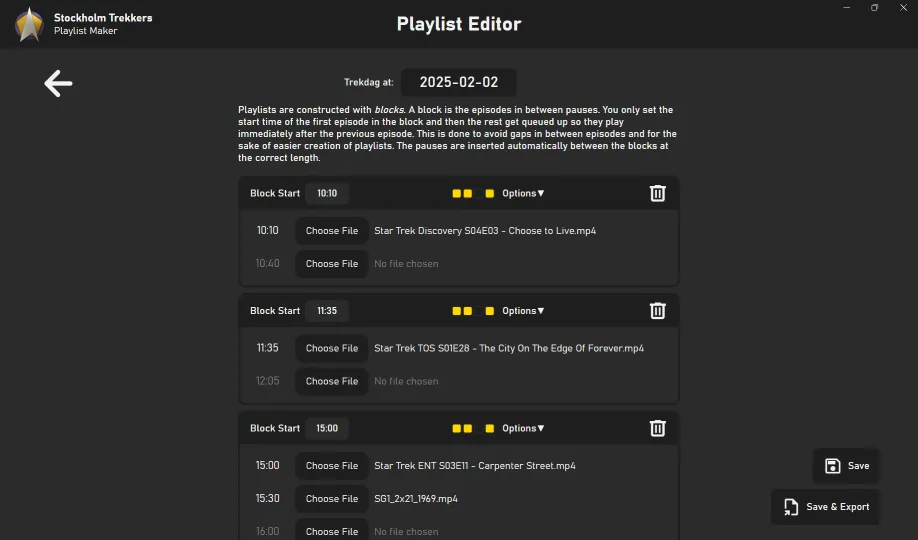
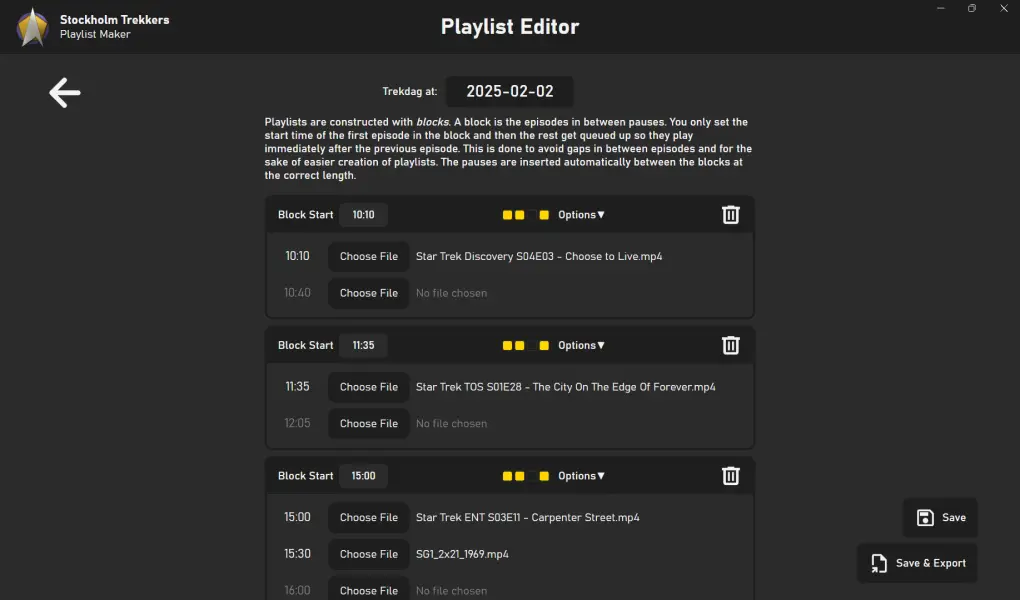
change image sizes

diff --git a/src/info.tsx b/src/info.tsx
@@ -197,8 +197,8 @@ export const info: {
       </>,
       stack: ["Electron", "Node.js", "JavaScript", "HTML & CSS", "Git & GitHub", "GitHub Workflows"],
       images: <>
-        <img className="w-full sm:w-2/5" height={540} width={918} loading="lazy" src="/screenshots/playlist-editor.webp"  alt="playlist editor" />
-        <img className="w-full sm:w-2/5" height={540} width={918} loading="lazy" src="/screenshots/playlist-editor-exporting.webp" alt="playlist editor while exporting a project" />
+        <img className="w-full sm:w-2/5" height={577} width={339} loading="lazy" src="/screenshots/playlist-editor.webp"  alt="playlist editor" />
+        <img className="w-full sm:w-2/5" height={577} width={339} loading="lazy" src="/screenshots/playlist-editor-exporting.webp" alt="playlist editor while exporting a project" />
       </>,
       sourceCodeLink: <a href="https://github.com/VenaStrom/Stockholm-Trekkers-Playlist-Maker" target="_blank">GitHub</a>,
       visitLink: null,
@@ -223,8 +223,8 @@ export const info: {
         "Zustand",
       ],
       images: <>
-        <img className="w-2/5 sm:w-2/7" height={3094} width={1442} loading="lazy" src="/screenshots/home-page.webp" alt="Vena's radio home page" />
-        <img className="w-2/5 sm:w-2/7" height={3094} width={1442} loading="lazy" src="/screenshots/feed-page.webp" alt="Vena's radio feed page" />
+        <img className="w-2/5 sm:w-2/7" height={495} width={231} loading="lazy" src="/screenshots/home-page.webp" alt="Vena's radio home page" />
+        <img className="w-2/5 sm:w-2/7" height={495} width={231} loading="lazy" src="/screenshots/feed-page.webp" alt="Vena's radio feed page" />
       </>,
       sourceCodeLink: <a href="https://github.com/VenaStrom/Venas-Radio" target="_blank">GitHub</a>,
       visitLink: <a href="https://vr-radio.tailad6f63.ts.net/" target="_blank">Live site</a>,

diff --git a/scripts/webp-converter.ts b/scripts/webp-converter.ts
@@ -7,10 +7,17 @@ if (!webpPath) {
 import { execSync } from "child_process";
 import fs from "node:fs";
 import path from "node:path";
-
+import sharp from "sharp";
 
 const inputImages = fs.globSync("assets/screenshots/*.png");
 const outputDir = "public/screenshots/";
+
+const outputSizeOverride = {
+  "feed-page.png": { width: 400, height: 0 },
+  "home-page.png": { width: 400, height: 0 },
+  "playlist-editor-exporting.png": { width: 0, height: 600 },
+  "playlist-editor.png": { width: 0, height: 600 },
+}
 
 for (const inputImage of inputImages) {
   const outputImage = path.join(
@@ -18,7 +25,24 @@ for (const inputImage of inputImages) {
     path.basename(inputImage, path.extname(inputImage)) + ".webp",
   );
 
-  const command = `"${webpPath}" -q 80 "${inputImage}" -o "${outputImage}"`;
+  let outputWidth: number | undefined = undefined;
+  let outputHeight: number | undefined = undefined;
+  const override = outputSizeOverride[path.basename(inputImage)];
+  if (override) {
+    outputWidth = override.width;
+    outputHeight = override.height;
+  }
+  else {
+    const scale = 0.5;
+    const metadata = await sharp(inputImage).metadata();
+    if (!metadata.width || !metadata.height) {
+      throw new Error(`Could not get dimensions for image: ${inputImage}`);
+    }
+    outputWidth = Math.round(metadata.width * scale);
+    outputHeight = Math.round(metadata.height * scale);
+  }
+
+  const command = `"${webpPath}" "${inputImage}" -resize ${outputWidth} ${outputHeight} -o "${outputImage}"`;
   console.log(`Converting ${inputImage} to ${outputImage}...`);
   execSync(command);
   console.log(`Converted ${inputImage} to ${outputImage}`);
